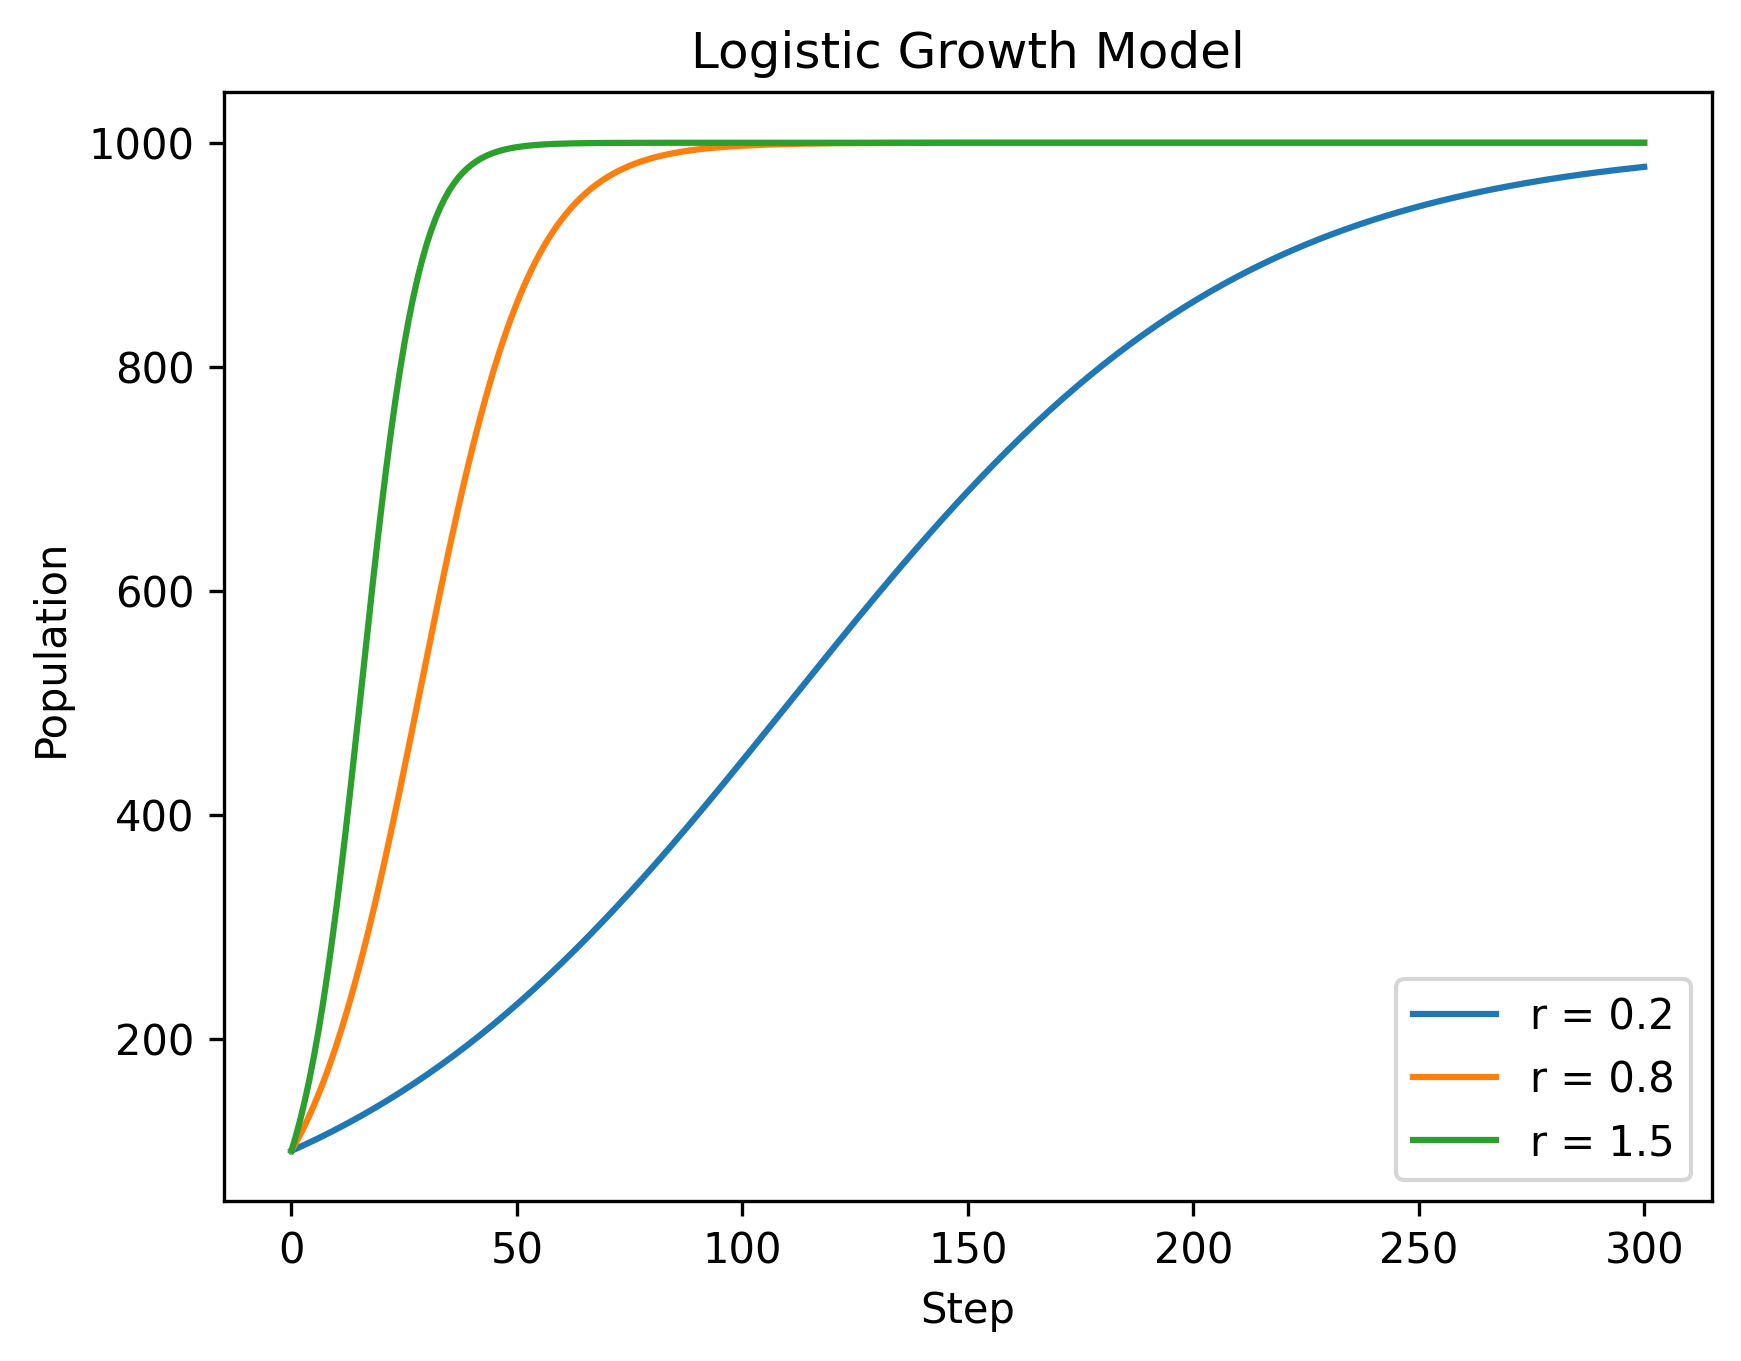
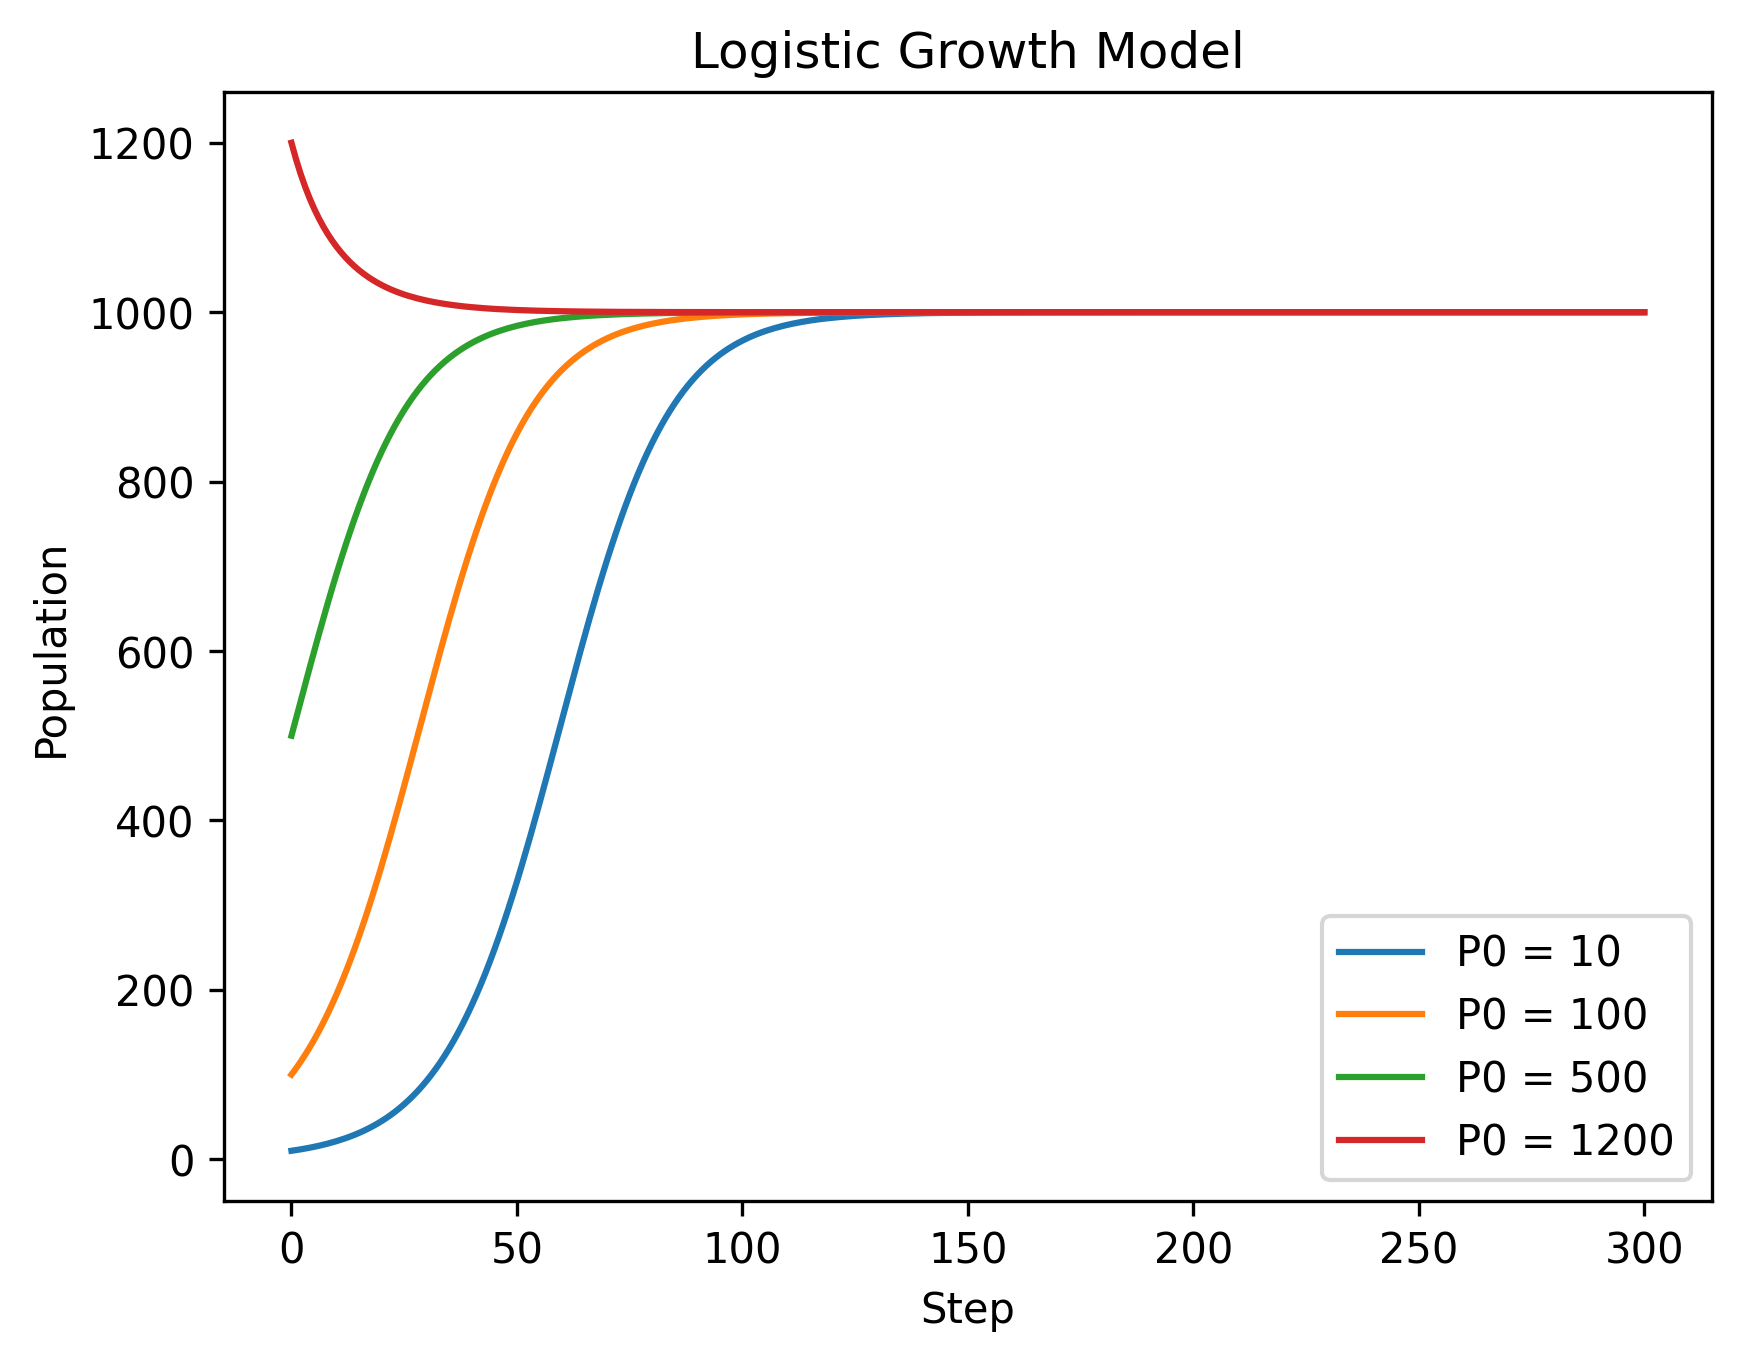
Investigate effect of initial conditions

diff --git a/src/euler.py b/src/euler.py
@@ -53,33 +53,19 @@ def simulate_logistic(P0: float, r: float, K: float, dt: float, steps: int):
         print(f"Step {step + 1}: Population = {P:.2f}")
 
     return populations
-results1 = simulate_logistic(
-    P0=100,
-    r=0.2,
-    K=1000,
-    dt=0.1,
-    steps=300
-)
 
-results2 = simulate_logistic(
-    P0=100,
-    r=0.8,
-    K=1000,
-    dt=0.1,
-    steps=300
-)
+initial_conditions = [10, 100, 500, 1200]
 
-results3 = simulate_logistic(
-    P0=100,
-    r=1.5,
-    K=1000,
-    dt=0.1,
-    steps=300
-)
+for P0 in initial_conditions:
+    results = simulate_logistic(
+        P0=P0,
+        r=0.8,
+        K=1000,
+        dt=0.1,
+        steps=300
+    )
 
-plt.plot(results1, label="r = 0.2")
-plt.plot(results2, label="r = 0.8")
-plt.plot(results3, label="r = 1.5")
+    plt.plot(results, label=f"P0 = {P0}")
 
 plt.title("Logistic Growth Model")
 plt.xlabel("Step")

diff --git a/README.md b/README.md
@@ -80,3 +80,17 @@ Observation:
 Conclusion:
 The growth rate r controls how quickly the system approaches equilibrium,
 while the carrying capacity K determines the long-term population level.
+
+
+## Stability Analysis
+
+For the logistic equation
+
+dP/dt = rP(1 - P/K),
+
+the equilibria are:
+
+- P = 0 (unstable)
+- P = K (stable)
+
+The simulations confirm that solutions with positive initial conditions converge to the stable equilibrium P = K.
